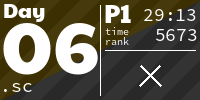
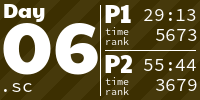
refactor(day06): clean up part 2

diff --git a/README.md b/README.md
@@ -2,7 +2,7 @@
 
 <!-- AOC TILES BEGIN -->
 <h1 align="center">
-  2024 - 11 ⭐ - SuperCollider
+  2024 - 12 ⭐ - SuperCollider
 </h1>
 <a href="2024/day01.sc">
   <img src=".aoc_tiles/tiles/2024/01.png" width="161px">
